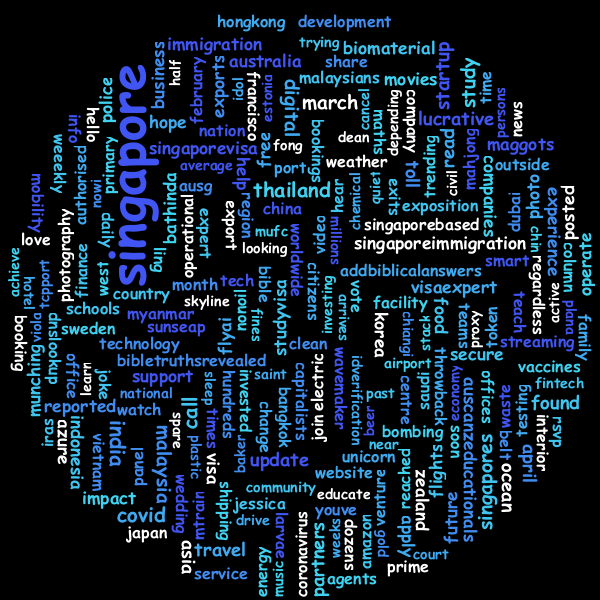
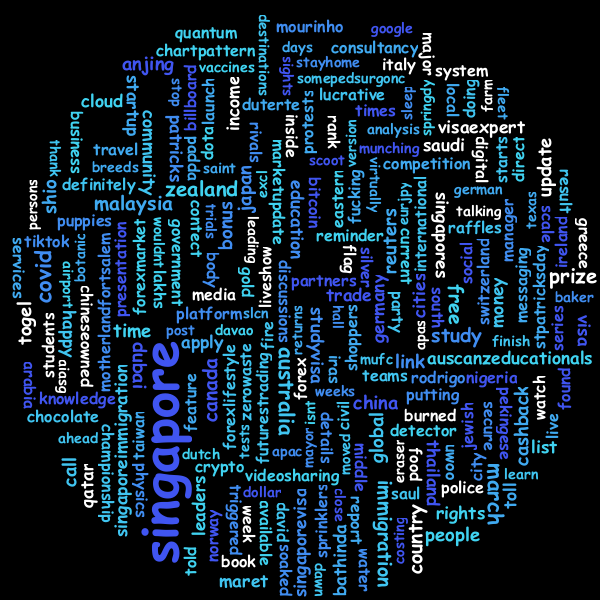
-

diff --git a/Spooder/src/main/java/Spooding/Spooder/WordCloudGenerator.java b/Spooder/src/main/java/Spooding/Spooder/WordCloudGenerator.java
@@ -62,7 +62,7 @@ public class WordCloudGenerator extends MongoConnect {
 	 * Method to create and save the word cloud image onto disk, depending on the source and sentiment type
 	 * @throws IOException Throws exception is related to Input and Output operations
 	 */
-	public void generateSentimentCloud(String source, String sentimentType) throws IOException { 
+	public void generateCloud() throws IOException { 
 		// set word limit
         frequencyAnalyzer.setWordFrequenciesToReturn(250);
         // set word length to be at least 4
@@ -72,13 +72,13 @@ public class WordCloudGenerator extends MongoConnect {
         // initialise a list to store all the string of data from the source
         List<String> dataList = new ArrayList<String>();
         
-        // load the sentiment data from mongodb, filter by the source and and sentiment type
+        // load the sentiment data from mongodb, filter by the source
         List<SentimentPost> SentimentList = importSentimentMongo();
     	for (SentimentPost post: SentimentList) {
-        	if (post.getSource().equals(source) && post.getSentiment().equals(sentimentType))
+        	if (post.getSource().equals(this.source))
     			dataList.add(post.getTitle());
     	}
-        
+    	
         // load the data source from mongodb into the analyzer
 		final List<WordFrequency> wordFrequencies = frequencyAnalyzer.load(dataList);
 		// there are 2 collision mode to choose from, PIXEL_PERFECT and RECTANGLE
@@ -91,15 +91,7 @@ public class WordCloudGenerator extends MongoConnect {
 		wordCloud.setColorPalette(new ColorPalette(new Color(0x4055F1), new Color(0x408DF1), new Color(0x40AAF1), new Color(0x40C5F1), new Color(0x40D3F1), new Color(0xFFFFFF)));
 		wordCloud.setFontScalar(new SqrtFontScalar(10, 50));
 		wordCloud.build(wordFrequencies);
-		wordCloud.writeToFile(String.format("wordCloud/%s/%s_%s_word_cloud.png", source, source, sentimentType.toLowerCase()));
-		//wordCloud.writeToFile("wordCloud/" + source + "/" + source + "_word_cloud.png");
-	}
-	
-	public void generateCloud() throws IOException {
-		generateSentimentCloud(source, "Positive");
-		generateSentimentCloud(source, "Neutral");
-		generateSentimentCloud(source, "Negative");
-		
+		wordCloud.writeToFile(String.format("wordCloud/%s_word_cloud.png", source));
 	}
 	/**
 	 * Method to load in stop words from .txt file

diff --git a/Spooder/src/main/java/Spooding/Spooder/App.java b/Spooder/src/main/java/Spooding/Spooder/App.java
@@ -90,14 +90,6 @@ public class App {
 				redditThread.join();
 				twitterThread.join();
 				stThread.join();
-				
-				// generate word cloud for each sources
-				wordCloud.setSource("twitter");
-				wordCloud.generateCloud();
-				wordCloud.setSource("reddit");
-				wordCloud.generateCloud();
-				wordCloud.setSource("straitstimes");
-				wordCloud.generateCloud();
 				break;
 			case 2:
 				System.out.print("\n----------Specific crawl----------\n1. Crawl from twitter\n2. Crawl from reddit\n3. Crawl from Straits Times\n4. Return\nEnter Choice: ");
@@ -105,18 +97,12 @@ public class App {
 				switch(subChoice) {
 				case 1:
 					crawlerProgram.crawl(twitterCrawler);
-					wordCloud.setSource("twitter");
-					wordCloud.generateCloud();
 					break;
 				case 2:
 					crawlerProgram.crawl(redditCrawler);
-					wordCloud.setSource("reddit");
-					wordCloud.generateCloud();
 					break;
 				case 3:
 					crawlerProgram.crawl(straitsCrawler);
-					wordCloud.setSource("straitstimes");
-					wordCloud.generateCloud();
 					break;
 				case 4:
 					break;
@@ -131,15 +117,28 @@ public class App {
 				switch(analysisChoice) {
 				case 1:
 					redditAnalysis.Analyze(allData.getAllData(),"All Sources");
+					// generate word cloud for each sources
+					wordCloud.setSource("twitter");
+					wordCloud.generateCloud();
+					wordCloud.setSource("reddit");
+					wordCloud.generateCloud();
+					wordCloud.setSource("straitstimes");
+					wordCloud.generateCloud();
 					break;
 				case 2:
 					redditAnalysis.Analyze(allData.getRedditData(), "Reddit");
+					wordCloud.setSource("reddit");
+					wordCloud.generateCloud();
 					break;
 				case 3:
 					twitterAnalysis.Analyze(allData.getTwitterData(), "Twitter");
+					wordCloud.setSource("twitter");
+					wordCloud.generateCloud();
 					break;
 				case 4:
 					straitsTimeAnalysis.Analyze(allData.getSTData(), "Straits Time");
+					wordCloud.setSource("straitstimes");
+					wordCloud.generateCloud();
 					break;
 				case 5:
 					break;
